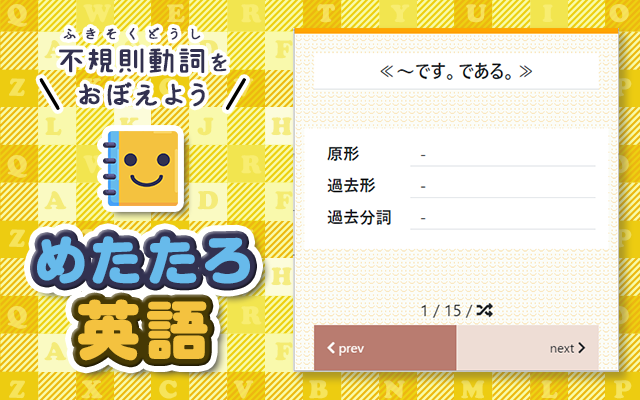
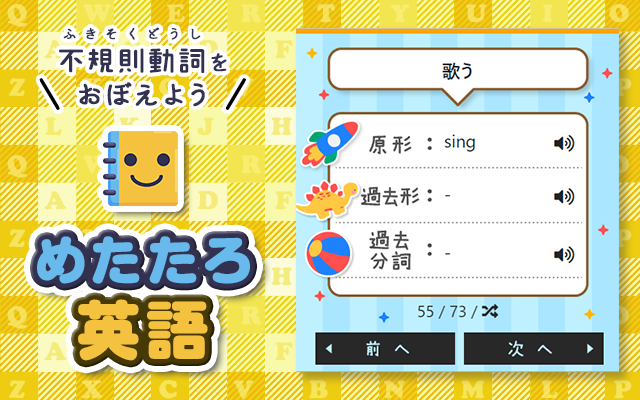
v2.0
単語追加
chrome発音機能
デザイン反映
ランダム移動

Changed region(s): [[0.4375, 0.06, 0.9688, 0.93], [0.6562, 0.54, 0.6875, 0.57]]

diff --git a/popup.html b/popup.html
@@ -11,37 +11,39 @@
 <body>
 	<main class="h-100">
 		<section class="w-auto m-4">
-			<h1 class="fs-3 text-center border-bottom bg-white py-2 mb-5">≪<span class="text"></span>≫</h1>
-			<dl class="row fs-5 bg-white p-3">
-				<dt class="col-4">原形</dt>
-				<dd class="col-8 border-bottom gen"><span class="gen">-</span> <i class="fas fa-volume-up spegen float-end"></i></dd>
-				<dt class="col-4">過去形</dt>
-				<dd class="col-8 border-bottom kako"><span class="kako">-</span> <i class="fas fa-volume-up spekako float-end"></i></dd>
-				<dt class="col-4">過去分詞</dt>
-				<dd class="col-8 border-bottom kakobun"><span class="kakobun">-</span> <i class="fas fa-volume-up spekakobun float-end"></i></dd>
+			<h1 class="fs-3 text-center py-2"><span class="text"></span></h1>
+			<dl class="row fs-4 p-3 align-items-end">
+				<dt class="col-5"><img src="/images/icon1.png"></dt>
+				<dd class="col-7 gen"><span class="gen">-</span> <i class="fas fa-volume-up spegen float-end me-3"></i></dd>
+				<dt class="col-5"><img src="/images/icon2.png"></dt>
+				<dd class="col-7 kako"><span class="kako">-</span> <i class="fas fa-volume-up spekako float-end me-3"></i></dd>
+				<dt class="col-5"><img src="/images/icon3.png"></dt>
+				<dd class="col-7 kakobun"><span class="kakobun">-</span> <i class="fas fa-volume-up spekakobun float-end me-3"></i></dd>
 			</dl>
 		</section>
 
-		<nav class="w-auto mx-4 fixed-bottom">
+		<nav class="w-auto mx-3 fixed-bottom">
 			<div class="pager mb-1 text-center fs-5">
 				<span class="now"></span> / <span class="total"></span> / <i class="fas fa-random random"></i>
 			</div>
 
 			<ul class="list-unstyled row m-0">
-				<li class="col-6 p-3 prev"><span><i class="fas fa-chevron-left"></i> prev</span></li>
-				<li class="col-6 p-3 text-end next"><span>next <i class="fas fa-chevron-right"></i></span></li>
+				<li class="col-6 p-2 prev"><img src="/images/prev.png"></li>
+				<li class="col-6 p-2 text-end next"><img src="/images/next.png"></li>
 			</ul>
 		</nav>
 	</main>
 	<script src="/js/app.js"></script>
 	<style>
-		html { border-top: 8px solid orange; }
[1 lines of base64/hex data omitted]
-		main section dl dd { cursor: pointer; }
+		html { border-top: 6px solid orange;background-image: url(/images/back.png); }
+		body { background-color: initial; }
+		main section h1 { margin-bottom: 1.9rem!important; }
+		main section dl { height: 220px; }
+		main section dl dt { position: relative;left: -40px;top: -10px; }
+		main section dl dd { cursor: pointer;height: 58px; }
+		main section dl dd i { position: relative;top: 10px; }
 		main nav .pager i { cursor: pointer; }
 		main nav ul li { cursor: pointer; }
-		main nav ul li.prev { background-color: #b97c70;color: #fefefc; }
-		main nav ul li.next { background-color: #eeddd5; }
 	</style>
 </body>
 </html>

diff --git a/js/app.js b/js/app.js
@@ -1,7 +1,7 @@
 var tango = {
 	num: 0
 	,list: [
-		{ "text": "～です。である。", "gen": "be (am, is, are)", "kako": "was, were", "kakobun": "been" },
+		{ "text": "～です。である。", "gen": "be, am, is, are", "kako": "was, were", "kakobun": "been" },
 		{ "text": "～になる", "gen": "become", "kako": "became", "kakobun": "become" },
 		{ "text": "始める", "gen": "begin", "kako": "began", "kakobun": "begun" },
 		{ "text": "こわす", "gen": "break", "kako": "broke", "kakobun": "broken" },
@@ -52,7 +52,7 @@ var tango = {
 		{ "text": "会う", "gen": "meet", "kako": "met", "kakobun": "met" },
 		{ "text": "支払う", "gen": "pay", "kako": "paid", "kakobun": "paid" },
 		{ "text": "置く", "gen": "put", "kako": "put", "kakobun": "put" },
-		{ "text": "読む", "gen": "read /ríːd/ リード", "kako": "read/rέd/ レッド", "kakobun": "read/rέd/ レッド" },
+		{ "text": "読む", "gen": "read ríːd", "kako": "read rέd", "kakobun": "read rέd" },
 		{ "text": "乗る", "gen": "ride", "kako": "rode", "kakobun": "ridden" },
 
 		{ "text": "鳴る", "gen": "ring", "kako": "rang", "kakobun": "rung" },
